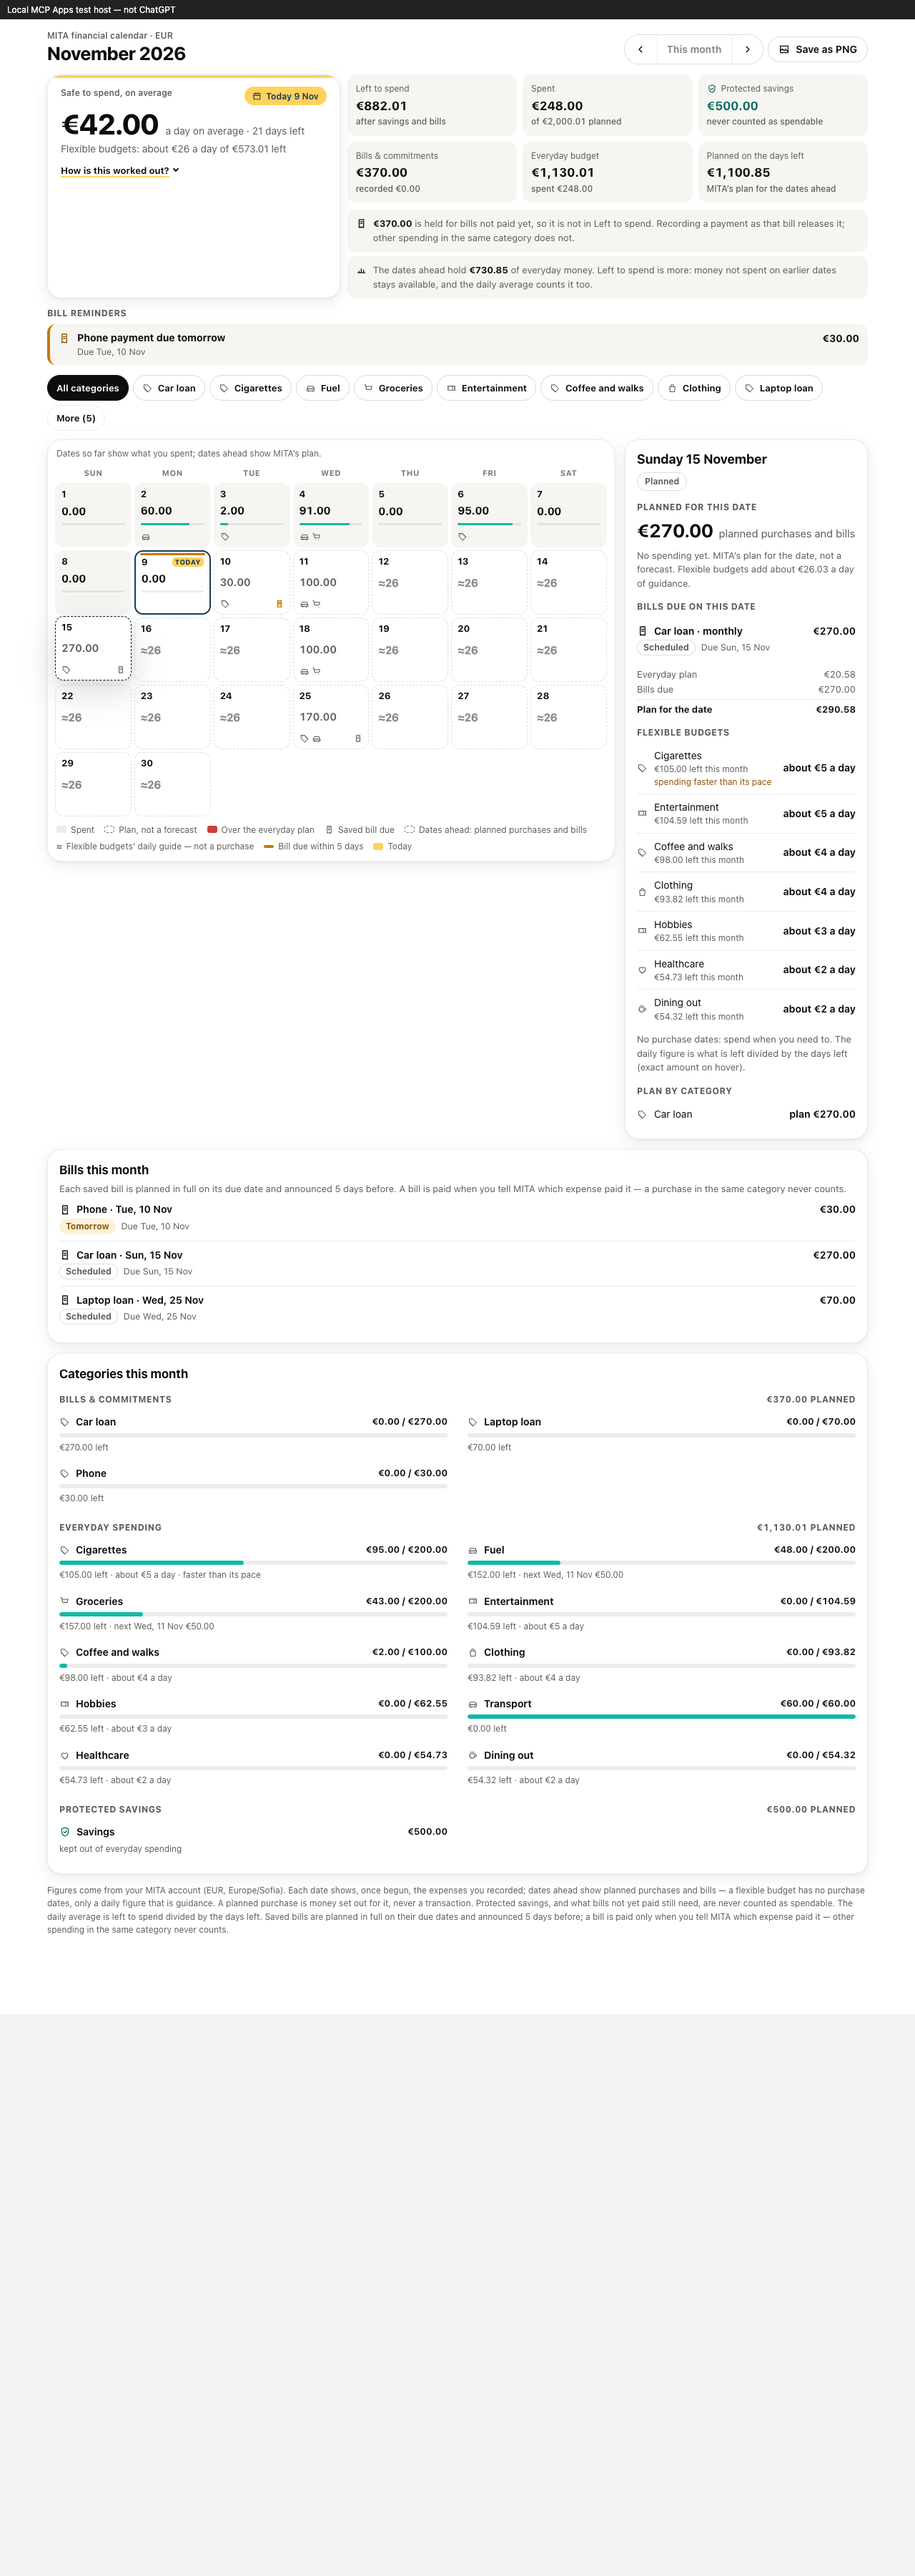
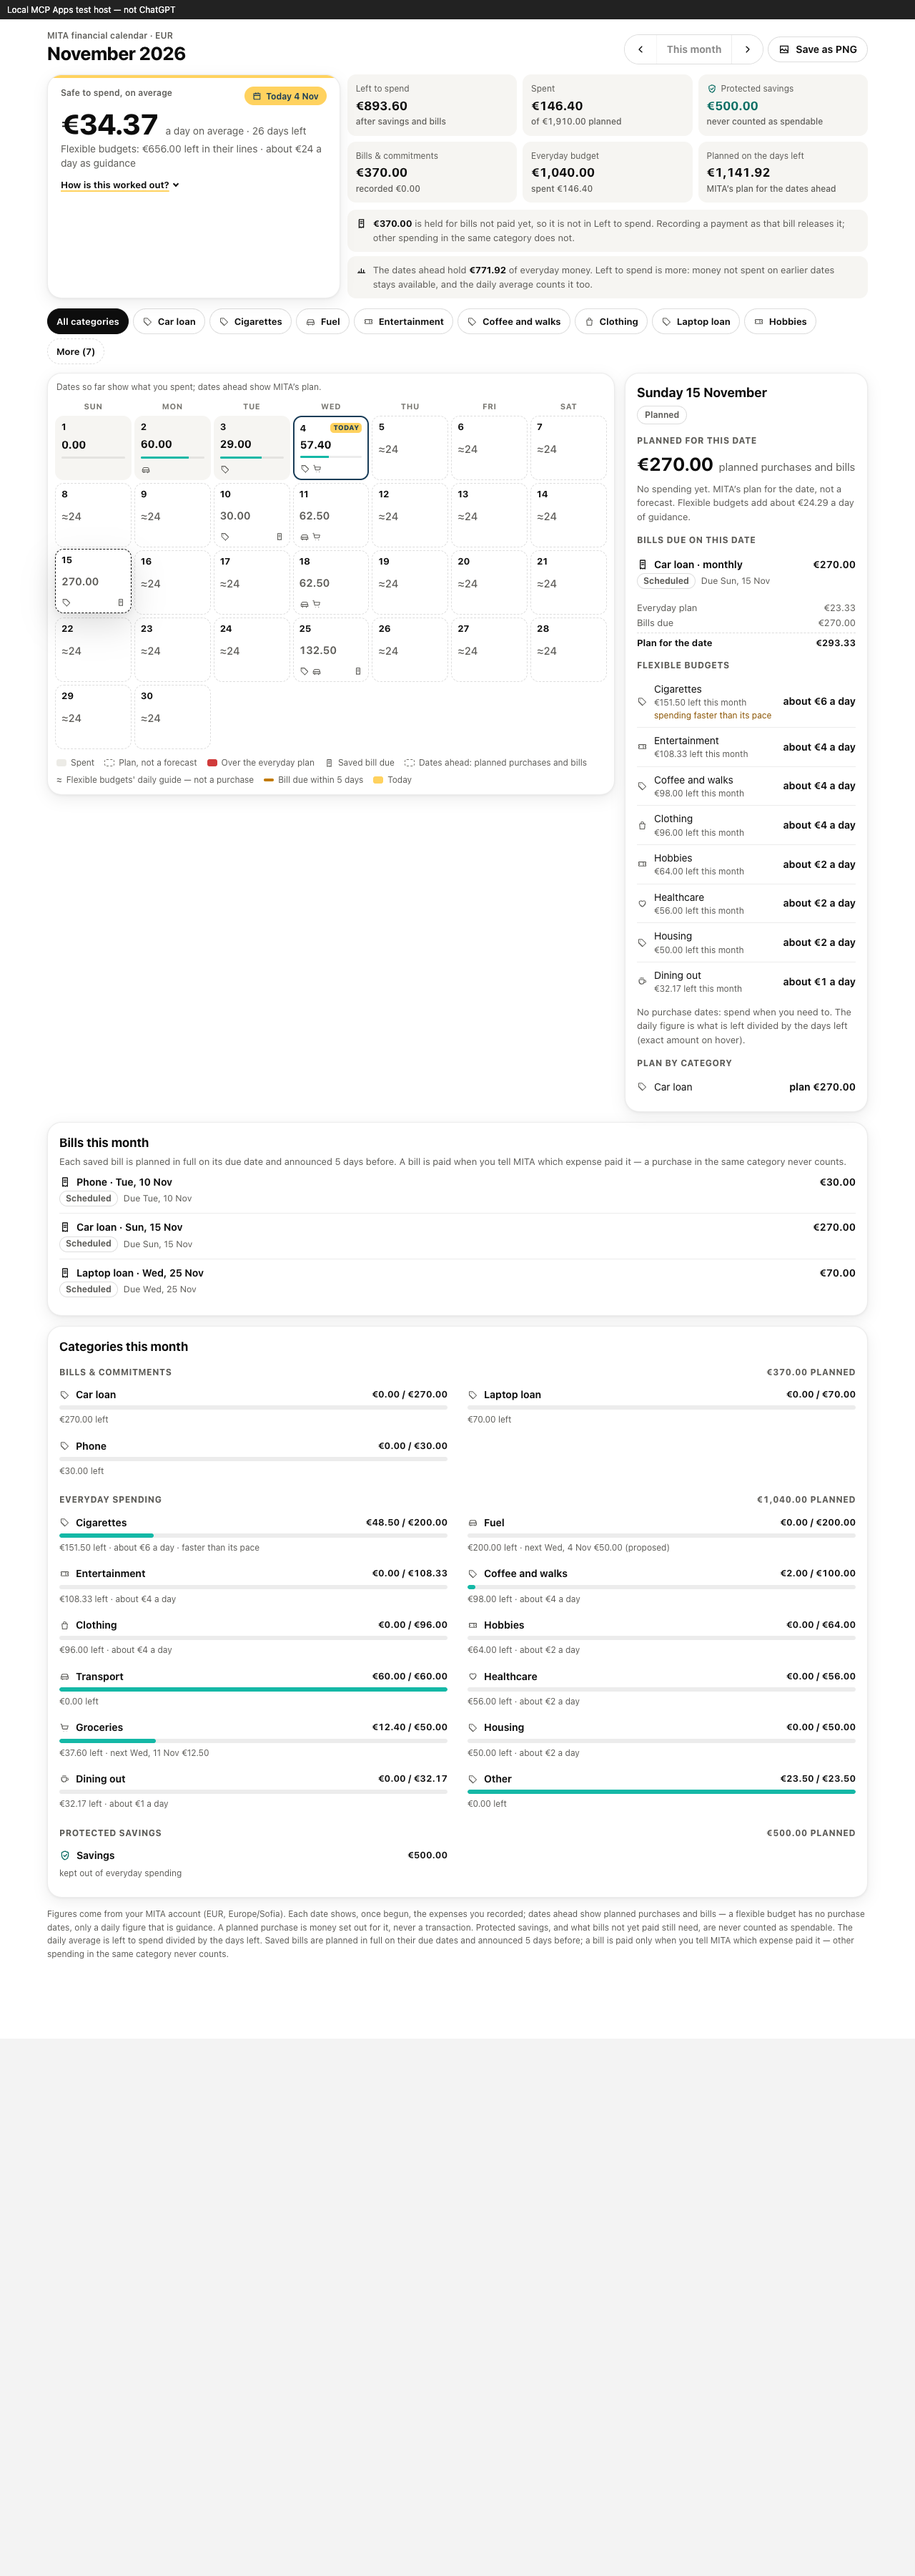
fix(mcp): calendar v3 guide never above the safe average, AA contrast; harness on v3
Found by running the full review harness (calendar_widget_review.py with
axe) against a local 2.7.0 server:

- The "≈" daily guide on dates without a purchase failed WCAG 2.2 AA
  colour contrast (tertiary text at 85% opacity, below 4.5:1, axe
  "serious" in inline light). It is now --color-text-secondary at a
  lighter weight, told apart by "≈".
- The guide could exceed the month's safe average: the user's own lines
  are never donors, so after an overspend nothing could cover (or a bill
  paid without its link) the envelopes still show money that is no longer
  safe. CalendarMonth.flexible_per_day is now never above the forecast's
  safe_daily_limit (floored at 0), so cells, the model's text and the
  summary agree with the headline figure; the hero reads "€X left in their
  lines · about €Y a day as guidance".
  test_the_daily_guide_never_exceeds_the_safe_average pins it.

Harness, stale since 2.7.0: it read ui://...-v2 ("Unknown resource"); it
now imports app.mcp.ui.CALENDAR_URI. It checks 430 px too, taps
"More (N)" when a phone hides the filter chip (every saved payment is a
line of its own now), and links the fictional month's bill payments as
ChatGPT does after asking. Result: 82/82, axe clean in inline/fullscreen
x light/dark, 320/360/390/430 px and desktop, PNG export both ways.

Renders in review/calendar-v3 regenerated from the current code (a
fictional copy of the owner's November).

diff --git a/app/mcp/ui/financial_calendar.html b/app/mcp/ui/financial_calendar.html
@@ -186,7 +186,8 @@ h1,h2,h3,p,dl,dd,ul{margin:0}
 .cell .tday{font-size:9.5px;font-weight:800;letter-spacing:.03em;text-transform:uppercase;padding:2px 4px;border-radius:5px;background:var(--mita-yellow);color:var(--mita-navy);line-height:1}
 .cell .amt{font-size:14px;font-weight:720;line-height:1.1;white-space:nowrap;overflow:hidden;letter-spacing:-.01em}
 .cell.future .amt{font-weight:620;color:var(--color-text-secondary)}
-.cell .amt.guide,.mcell span.guide{font-weight:560;color:var(--color-text-tertiary,var(--color-text-secondary));opacity:.85}
+/* the daily guide: told apart by "≈" and a lighter weight, never by a pale colour (WCAG AA 4.5:1; axe failed tertiary + opacity) */
+.cell .amt.guide,.mcell span.guide{font-weight:500;color:var(--color-text-secondary)}
 .chip-proposed{font-size:11px;font-weight:650;padding:1px 6px;border-radius:6px;border:1px dashed var(--color-border-primary);color:var(--color-text-secondary);margin-left:6px;white-space:nowrap}
 .meta.fast{color:var(--remind)}
 .cell .meter{height:3px;border-radius:2px;background:var(--track);overflow:hidden}
@@ -1220,7 +1221,7 @@ h1,h2,h3,p,dl,dd,ul{margin:0}
       return el("div", { class: "hero" }, [
         el("span", { class: "hero-fig num", text: money(s.average_per_day, cur) }),
         el("span", { class: "hero-cap", text: caption }),
-        flex ? el("span", { class: "hero-cap", style: "display:block;margin-top:2px", text: "Flexible budgets: about " + money(s.flexible_per_day_rounded, cur).replace(/[.,]00(?=\D*$)/, "") + " a day of " + money(s.flexible_left, cur) + " left" }) : null
+        flex ? el("span", { class: "hero-cap", style: "display:block;margin-top:2px", text: "Flexible budgets: " + money(s.flexible_left, cur) + " left in their lines · about " + money(s.flexible_per_day_rounded, cur).replace(/[.,]00(?=\D*$)/, "") + " a day as guidance" }) : null
       ]);
     }
     if (month.plan_status === "generated") {
@@ -1722,7 +1723,7 @@ h1,h2,h3,p,dl,dd,ul{margin:0}
       el("span", null, [el("i", { class: "sw overm" }), "Over the everyday plan"]),
       el("span", null, [icon("bill"), "Saved bill due"]),
       el("span", null, [el("i", { class: "sw plan" }), "Dates ahead: planned purchases and bills"]),
-      el("span", null, [el("b", { class: "num", style: "font-weight:560;opacity:.85", text: "≈" }), "Flexible budgets' daily guide — not a purchase"]),
+      el("span", null, [el("b", { class: "num", style: "font-weight:500", text: "≈" }), "Flexible budgets' daily guide — not a purchase"]),
       el("span", null, [el("i", { class: "sw win" }), "Bill due within " + reminderDays(state.payload.month) + " days"]),
       el("span", null, [el("i", { class: "sw todaym" }), "Today"])
     ]);

diff --git a/scripts/mcp/calendar_widget_review.py b/scripts/mcp/calendar_widget_review.py
@@ -60,7 +60,10 @@ sys.path.insert(0, str(ROOT))
 from _target_guard import assert_writable_target  # noqa: E402
 from e2e_v2 import _pg, cleanup, connect  # noqa: E402
 
-CALENDAR_URI = "ui://mita/financial-calendar-v2.html"
+# The service's own constant, never a copy: the harness stayed on -v2 after
+# 2.7.0 moved the component to -v3 and failed with "Unknown resource".
+from app.mcp.ui import CALENDAR_URI  # noqa: E402
+
 # The spec's default when a resource declares no domains (SEP-1865, "Host
 # Behavior"), minus 'self' — the review frame has an opaque origin.
 VIEW_CSP = (
@@ -224,8 +227,23 @@ def seed(mcp: McpBridge, today: date) -> None:
         (22, "14.90", "entertainment", "Streaming"),
         (23, "39.60", "groceries", "Lidl"),
     ]
+    # Since 2.7.0 only an expense linked to a saved payment pays it; ChatGPT
+    # asks and links the rent, kindergarten and utilities payments, so does
+    # this month (unlinked, each would be everyday spending AND still held).
+    refs = {
+        item["merchant"]: item["obligation_ref"]
+        for item in mcp.ok("get_recurring_expenses", {})["structuredContent"][
+            "scheduled_recurring"
+        ]
+    }
     items = [
-        {"amount": amount, "category": category, "date": on(day), "merchant": merchant}
+        {
+            "amount": amount,
+            "category": category,
+            "date": on(day),
+            "merchant": merchant,
+            **({"obligation_ref": refs[merchant]} if merchant in refs else {}),
+        }
         for day, amount, category, merchant in spending
         if day <= today.day
     ]
@@ -822,7 +840,14 @@ def _review(args, mcp: McpBridge, out: Path, today: date) -> None:
             None,
         )
         if groceries:
-            host.frame.click('button.fchip:has-text("Groceries")')
+            chip = 'button.fchip:has-text("Groceries")'
+            if host.frame.query_selector(chip) is None:
+                # A phone shows the largest lines first; since 2.7.0 every
+                # saved payment is a line of its own, so the rest sit behind
+                # "More (N)" — tap it as a person would.
+                host.frame.click("#filter-more")
+                host.settle(300)
+            host.frame.click(chip)
             host.wait_for(".banner")
             host.settle(400)
             banner = host.frame.inner_text(".banner")
@@ -953,9 +978,10 @@ def _review(args, mcp: McpBridge, out: Path, today: date) -> None:
         host.shot(out, "12-export-fallback", full=True)
         host.close()
 
-        # 6. Narrow phones (a 360 dp Android's chat column is about 320 px):
-        #    nothing overflows sideways and no amount, tile or button is cut.
-        for width, height in ((320, 640), (360, 740), (390, 844)):
+        # 6. Phones (a 360 dp Android's chat column is about 320 px; 430 px is
+        #    a large iPhone): nothing overflows sideways and no amount, tile or
+        #    button is cut.
+        for width, height in ((320, 640), (360, 740), (390, 844), (430, 932)):
             host = HostPage(
                 webkit,
                 mcp,
@@ -978,7 +1004,7 @@ def _review(args, mcp: McpBridge, out: Path, today: date) -> None:
                     fit["overflow"] <= 0 and not fit["cut"],
                     json.dumps(fit),
                 )
-            if width in (320, 390):
+            if width in (320, 390, 430):
                 host.frame_shot(out, f"13-fullscreen-{width}")
             host.close()
 
@@ -1048,6 +1074,7 @@ def _review(args, mcp: McpBridge, out: Path, today: date) -> None:
             "show_financial_calendar",
             "update_financial_profile",
             "add_recurring_expense",
+            "get_recurring_expenses",
             "preview_monthly_budget",
             "save_monthly_budget",
             "create_savings_goal",

diff --git a/tests_mcp/test_behavioral_budget.py b/tests_mcp/test_behavioral_budget.py
@@ -792,3 +792,48 @@ async def test_freed_money_is_shown_and_can_be_given_to_chosen_lines(mcp, seed):
         spending_patterns=excluded,
     )
     assert line(chosen, "my:Groceries")["amount"] == "300.00"
+
+
+async def test_the_daily_guide_never_exceeds_the_safe_average(mcp, seed, connection):
+    """Envelopes can still hold money that is no longer safe to spend. The
+    user's own lines are never donors, so €1,500 of shopping nobody planned
+    leaves Cigarettes and Coffee and walks full while the month's safe
+    average collapses: the guide on dates without a purchase is then the
+    safe average (never below 0), not the envelopes' sum."""
+    user, token = await person(mcp, seed)
+    m2 = mcp.at(at(2))
+    draft = await preview(
+        m2,
+        token,
+        budget_lines=[
+            {"label": "Cigarettes", "amount": 200},
+            {"label": "Coffee and walks", "amount": 100},
+        ],
+    )
+    await save(m2, token, draft)
+    m5 = mcp.at(at(5))
+    before = await look(m5, token, connection, user, month=11, today=date(2026, 11, 5))
+    envelopes = sum(
+        D(x["left_per_day"])
+        for x in before.cal["categories"]
+        if x["spending_type"] == "flexible"
+    )
+    assert D(before.summary["flexible_per_day"]) == envelopes  # nothing to cap
+    await call(
+        m5,
+        token,
+        "add_transaction",
+        {"amount": "1500.00", "category": "shopping", "idempotency_key": key()},
+    )
+    seen = await look(m5, token, connection, user, month=11, today=date(2026, 11, 5))
+    cig = seen.line("my:Cigarettes")
+    assert cig["remaining"] == "200.00"  # never a donor
+    envelopes = sum(
+        D(x["left_per_day"])
+        for x in seen.cal["categories"]
+        if x["spending_type"] == "flexible"
+    )
+    safe = D(seen.summary["average_per_day"])
+    assert safe < envelopes
+    assert D(seen.summary["flexible_per_day"]) == max(D("0.00"), safe)
+    assert seen.summary["average_per_day"] == seen.forecast["safe_daily_limit"]

diff --git a/app/mcp/queries/calendar.py b/app/mcp/queries/calendar.py
@@ -367,10 +367,19 @@ class CalendarMonth:
     @property
     def flexible_per_day(self) -> Optional[Decimal]:
         """The flexible budgets' guidance for each day left, today included:
-        the sum of each line's left per day. Guidance, not cash on hand."""
+        the sum of each line's left per day — never more than the month's
+        safe average a day (the forecast's safe_daily_limit, never below 0).
+        Envelopes can still hold money that is no longer safe to spend (an
+        overspend nothing could cover, a bill paid without its link); then
+        the safe average is the guide. Guidance, not cash on hand."""
         days = [line.guidance()[0] for line in self.flexible_lines]
         known = [d for d in days if d is not None]
-        return sum(known, ZERO) if known else None
+        if not known:
+            return None
+        guide = sum(known, ZERO)
+        if self.forecast is not None and self.position != "past":
+            guide = min(guide, max(ZERO, self.forecast.safe_daily_limit))
+        return guide
 
     @property
     def bills_due_after_today(self) -> Decimal:

diff --git a/app/mcp/schemas.py b/app/mcp/schemas.py
@@ -1250,7 +1250,9 @@ class CalendarSummaryOut(_Out):
     flexible_per_day: Optional[Money] = Field(
         description=(
             "The flexible budgets' guidance for each day left, today included (the sum "
-            "of each flexible line's left_per_day). Guidance for flexible spending, not "
+            "of each flexible line's left_per_day), never more than average_per_day "
+            "(never below 0): when spending elsewhere used money the envelopes still "
+            "show, the safe average is the guide. Guidance for flexible spending, not "
             "cash on hand; null for a month without flexible budgets or one that ended."
         ),
         pattern=MONEY_PATTERN,

diff --git a/docs/chatgpt-app/review/calendar-v3/README.md b/docs/chatgpt-app/review/calendar-v3/README.md
@@ -1,26 +1,52 @@
-# Calendar component v3 — local render check (2026-11-04)
+# Calendar component v3 — local render checks (2026-11-04)
 
-`ui://mita/financial-calendar-v3.html` (MCP 2.7.0, `behavioral-budget.md`),
-rendered with REAL tool results for a fictional account on the local test
-database, viewed on 9 November: income 2,000, savings 500; Phone 30 (10th),
-Car loan 270 (15th), Laptop loan 70 (25th); Groceries every Wednesday and
-Fuel "about once a week, ~€50" (dates PROPOSED by MITA: 4, 11, 18, 25) as
-planned purchases; Cigarettes and Coffee and walks as flexible budgets;
-medical insurance and public transport marked not applicable; recorded: a €60
-car part (not the car loan), €95 of cigarettes by 6 Nov (faster than its
-pace), coffee, a €43 shop and €48 of fuel.
+`ui://mita/financial-calendar-v3.html` (MCP 2.7.0, `behavioral-budget.md`).
+**Not ChatGPT.** Both checks below run the real component and real tool
+results from a local 2.7.0 server; the owner's run in real ChatGPT is
+`../../acceptance-2.7.0-chatgpt.md`.
 
-**Not ChatGPT and not the full review harness.** A minimal MCP Apps test host
-(iframe sandboxed with `allow-scripts`, answering `ui/initialize`, one tool
-result and the component's `tools/call`) in headless Chromium (Playwright
-1.49.1): no console errors in any state. The full harness
-(`scripts/mcp/calendar_widget_review.py`: axe, keyboard, PNG export through
-the host) runs against the deployed staging service.
+## 1. The full review harness — 82/82
+
+`scripts/mcp/calendar_widget_review.py --axe` (axe-core 4.10.2) against a
+local server on a fresh database at `0042`: a new fictional account through
+the real sign-up page, its family month through MITA's tools (the rent,
+kindergarten and utilities payments linked to their saved payments, as
+ChatGPT does after asking), the component in an iframe sandboxed with
+`allow-scripts` only and the spec's CSP, every `tools/call` forwarded with the
+account's token. Passed: figures equal the tools', inline and fullscreen at
+**320, 360, 390 and 430 px** and desktop with nothing cut off or overflowing,
+light and dark, bill states and reminders, a category filter (behind
+"More (N)" on a phone since every saved payment is a line of its own), Save
+as PNG through `ui/download-file` (1080 px wide) and the in-card fallback,
+no console error, read tools only, **axe: no WCAG 2.2 AA violation** in
+inline/fullscreen × light/dark.
+
+The first 2.7.0 run failed axe: the "≈" guide on dates without a purchase
+was a pale colour with opacity (contrast below 4.5:1). It is now
+`--color-text-secondary` at a lighter weight, told apart by "≈". The run
+also showed the guide above the safe average when an envelope still held
+money that was no longer safe; the guide is now never above
+`average_per_day` (`test_the_daily_guide_never_exceeds_the_safe_average`).
+
+## 2. The owner's month, fictional copy — these PNGs
+
+A fictional copy of the owner's November from the current code, viewed on
+4 November: income 2,000, savings 500; Phone 30 (10th), Car loan 270 (15th),
+Laptop loan 70 (25th); own lines Fuel 200 ("about once a week, ~€50": dates
+PROPOSED by MITA, 4/11/18/25), Groceries 50 (every Wednesday), Cigarettes
+200, Coffee and walks 100, Housing 50; medical insurance and public
+transport not applicable; recorded: a €60 car part and €23.50 of personal
+care (neither pays a loan), cigarettes 3.50 + 45.00 (faster than its pace),
+coffee 2.00, groceries 12.40. Held for bills **€370.00**, €34.37 a day,
+flexible budgets €656.00 left in their lines, ≈€24 a day as guidance.
+Rendered by a minimal MCP Apps host (sandboxed iframe, `ui/initialize`, one
+tool result, the component's `tools/call`) in headless Chromium; no console
+error in any state.
 
 | File | What it shows |
 |---|---|
-| `w320-inline.png` | 320 px inline card: dates ahead show only planned purchases and bills in bold (10 Phone 30; 11/18 Groceries + proposed Fuel 100; 15 Car loan 270; 25 Groceries + Fuel + Laptop 170) and, where nothing is scheduled, the flexible budgets' daily guide "≈26" muted; the hero says "Flexible budgets: about €26 a day of €573.01 left" |
-| `w360-full.png` | 360 px fullscreen, a Wednesday ahead: the planned shop and the proposed fuel date marked "proposed date" |
-| `w390-full-dark.png` | 390 px, dark: a date with nothing scheduled leads with "≈€26.03 a day — guidance, not a purchase"; flexible budgets with what is left and "spending faster than its pace" |
-| `w430-full.png` | 430 px, a past Wednesday: the planned €50 shop with €43 spent, the flexible share labelled as guidance |
-| `desktop-full.png` | 1280 px: the car loan's due date (Everyday plan + Bills due = Plan for the date) |
+| `w320-inline.png` | 320 px inline card: planned purchases and bills in bold on their dates, "≈24" on dates with nothing scheduled; the hero's safe average and the flexible budgets' line |
+| `w360-full.png` | 360 px fullscreen, Wednesday 18 Nov: Fuel on a "proposed date" and the groceries shop as planned purchases, the flexible budgets each with its daily guide, Cigarettes "spending faster than its pace"; bills by due date |
+| `w390-full-dark.png` | 390 px, dark, Friday 20 Nov: nothing scheduled — the date leads with the flexible guide, "guidance, not a purchase" |
+| `w430-full.png` | 430 px, Wednesday 11 Nov: the groceries shop and the proposed fuel date |
+| `desktop-full.png` | 1280 px, Sunday 15 Nov: the car loan's due date (everyday plan + bill due = plan for the date), still unpaid |

diff --git a/docs/chatgpt-app/behavioral-budget.md b/docs/chatgpt-app/behavioral-budget.md
@@ -163,9 +163,14 @@ once, as a convenience.
 * Dates: `planned_scheduled` (planned purchases + bills) and
   `planned_flexible` (guidance) add up to `planned`; `purchases` (each with
   `proposed`). Dates ahead show `planned_scheduled` in bold; a date with
-  nothing scheduled shows the flexible budgets' daily guide, muted, as "≈€X"
-  (`summary.flexible_per_day` = Σ each flexible line's `left_per_day`) — never
-  a fabricated purchase, never an empty day.
+  nothing scheduled shows the flexible budgets' daily guide as "≈€X"
+  (`summary.flexible_per_day` = Σ each flexible line's `left_per_day`, never
+  more than the month's safe average a day and never below 0: the user's own
+  lines are never donors, so after an overspend nothing could cover — or a
+  bill paid without its link — the envelopes can still show money that is no
+  longer safe; then the safe average is the guide) — never a fabricated
+  purchase, never an empty day. Told apart by "≈" and a lighter weight, in
+  `--color-text-secondary` (WCAG AA; a paler colour failed axe).
 * **Daily intelligence for flexible lines** (owner, 2026-11-04), all from the
   forecast engine's own per-category figures (the ones behind
   `categories_at_risk`): `pace_per_day` (spent ÷ days elapsed) against

diff --git a/CLAUDE.md b/CLAUDE.md
@@ -1202,8 +1202,9 @@ Rules:
   - **Daily guidance stays the headline.** Flexible lines carry the forecast
     engine's pace (`pace_per_day` vs `planned_per_day`, `pace_status`,
     `days_until_exhausted`) and the revised `left_per_day`; the calendar shows
-    `summary.flexible_per_day` as a muted "≈" on dates with nothing scheduled.
-    Never a second calculation of pace.
+    `summary.flexible_per_day` as "≈" on dates with nothing scheduled — never
+    more than the safe average a day (`safe_daily_limit`, floored at 0), in
+    an AA-contrast colour. Never a second calculation of pace.
   - **Freed money is shown** (`preview_monthly_budget.freed_money`, F-12):
     a `not_applicable` line's money vs the same engine run keeping it;
     explicit redistribution only through `budget_lines`.
